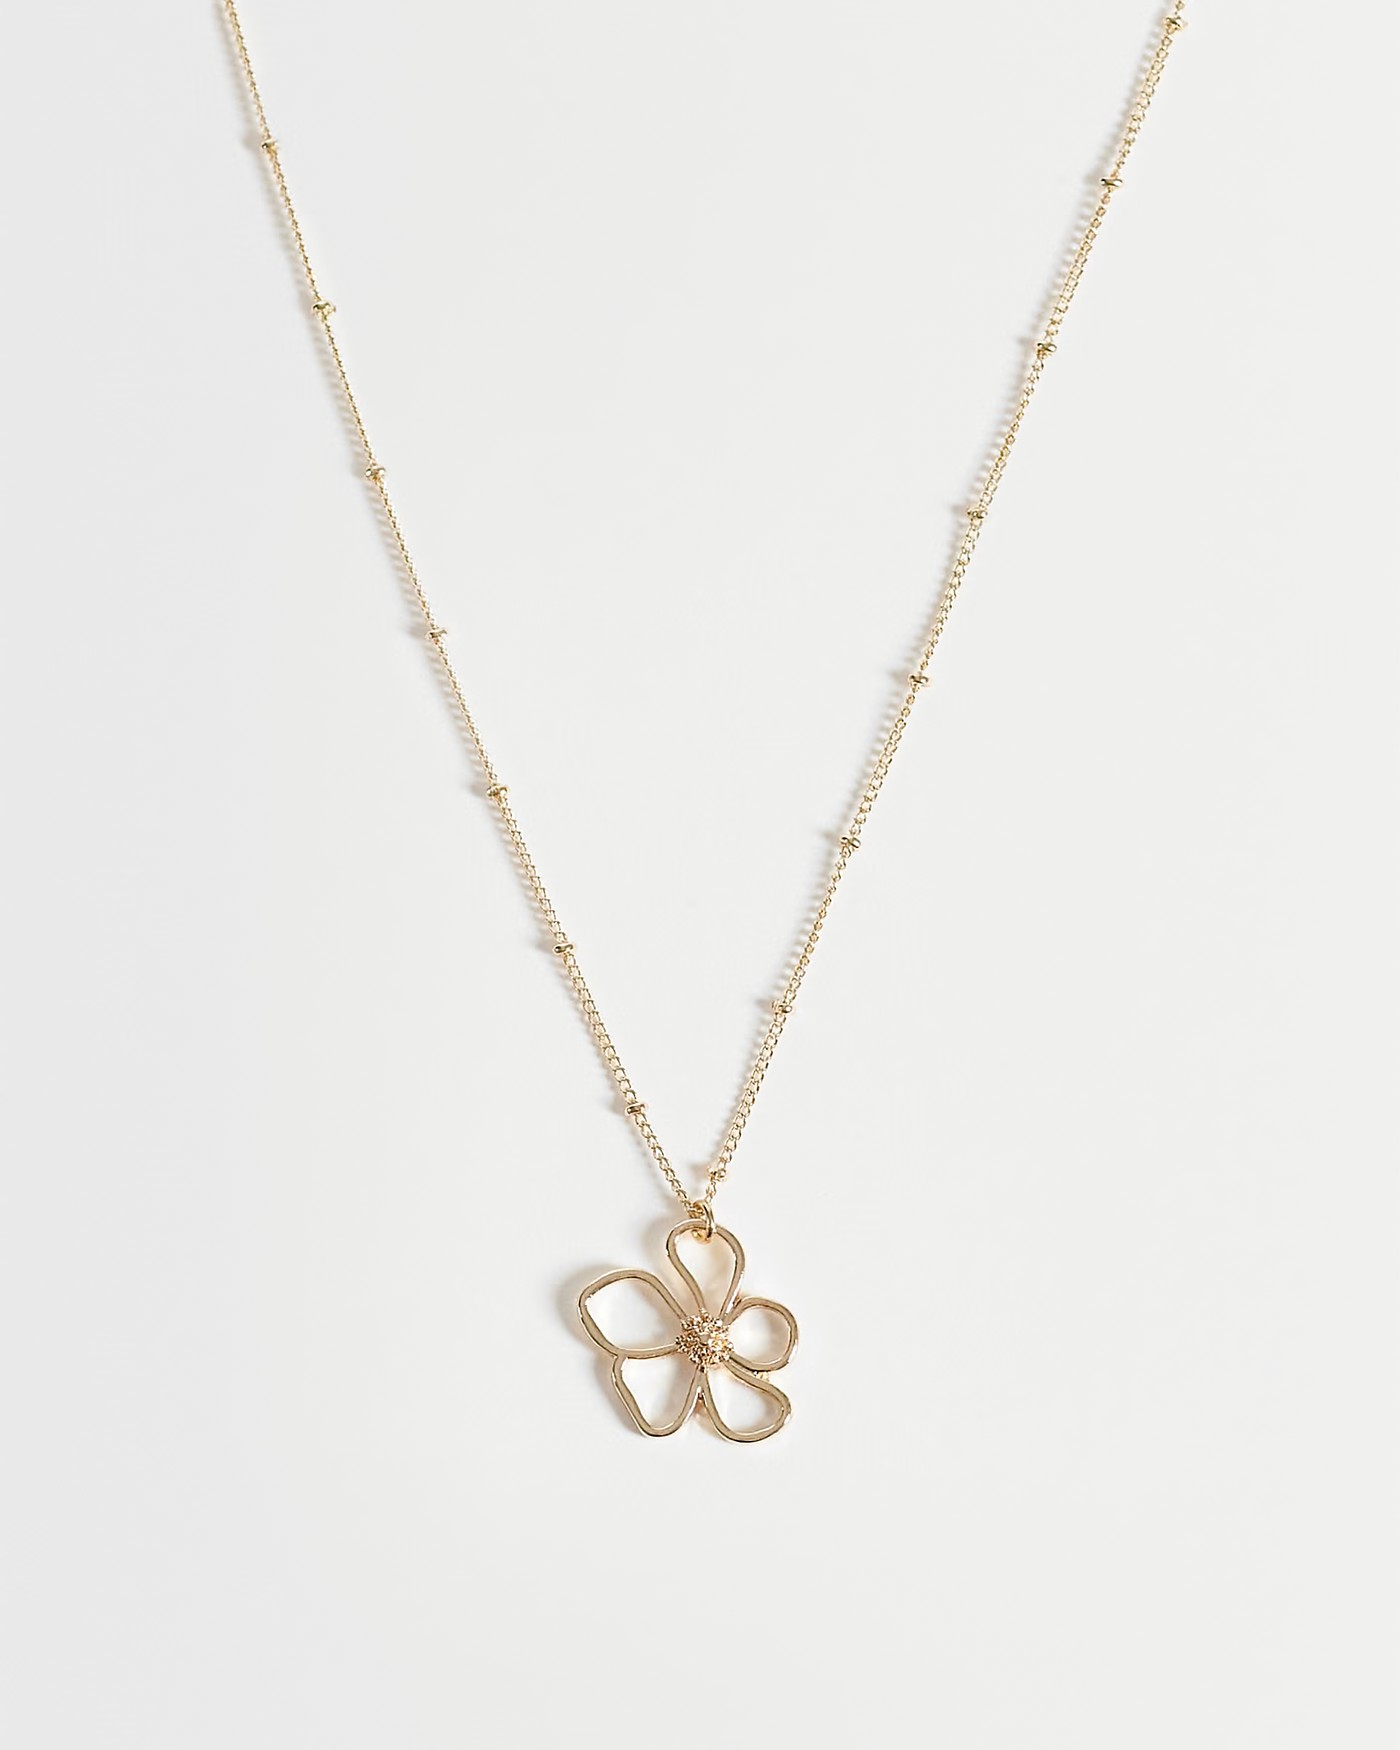
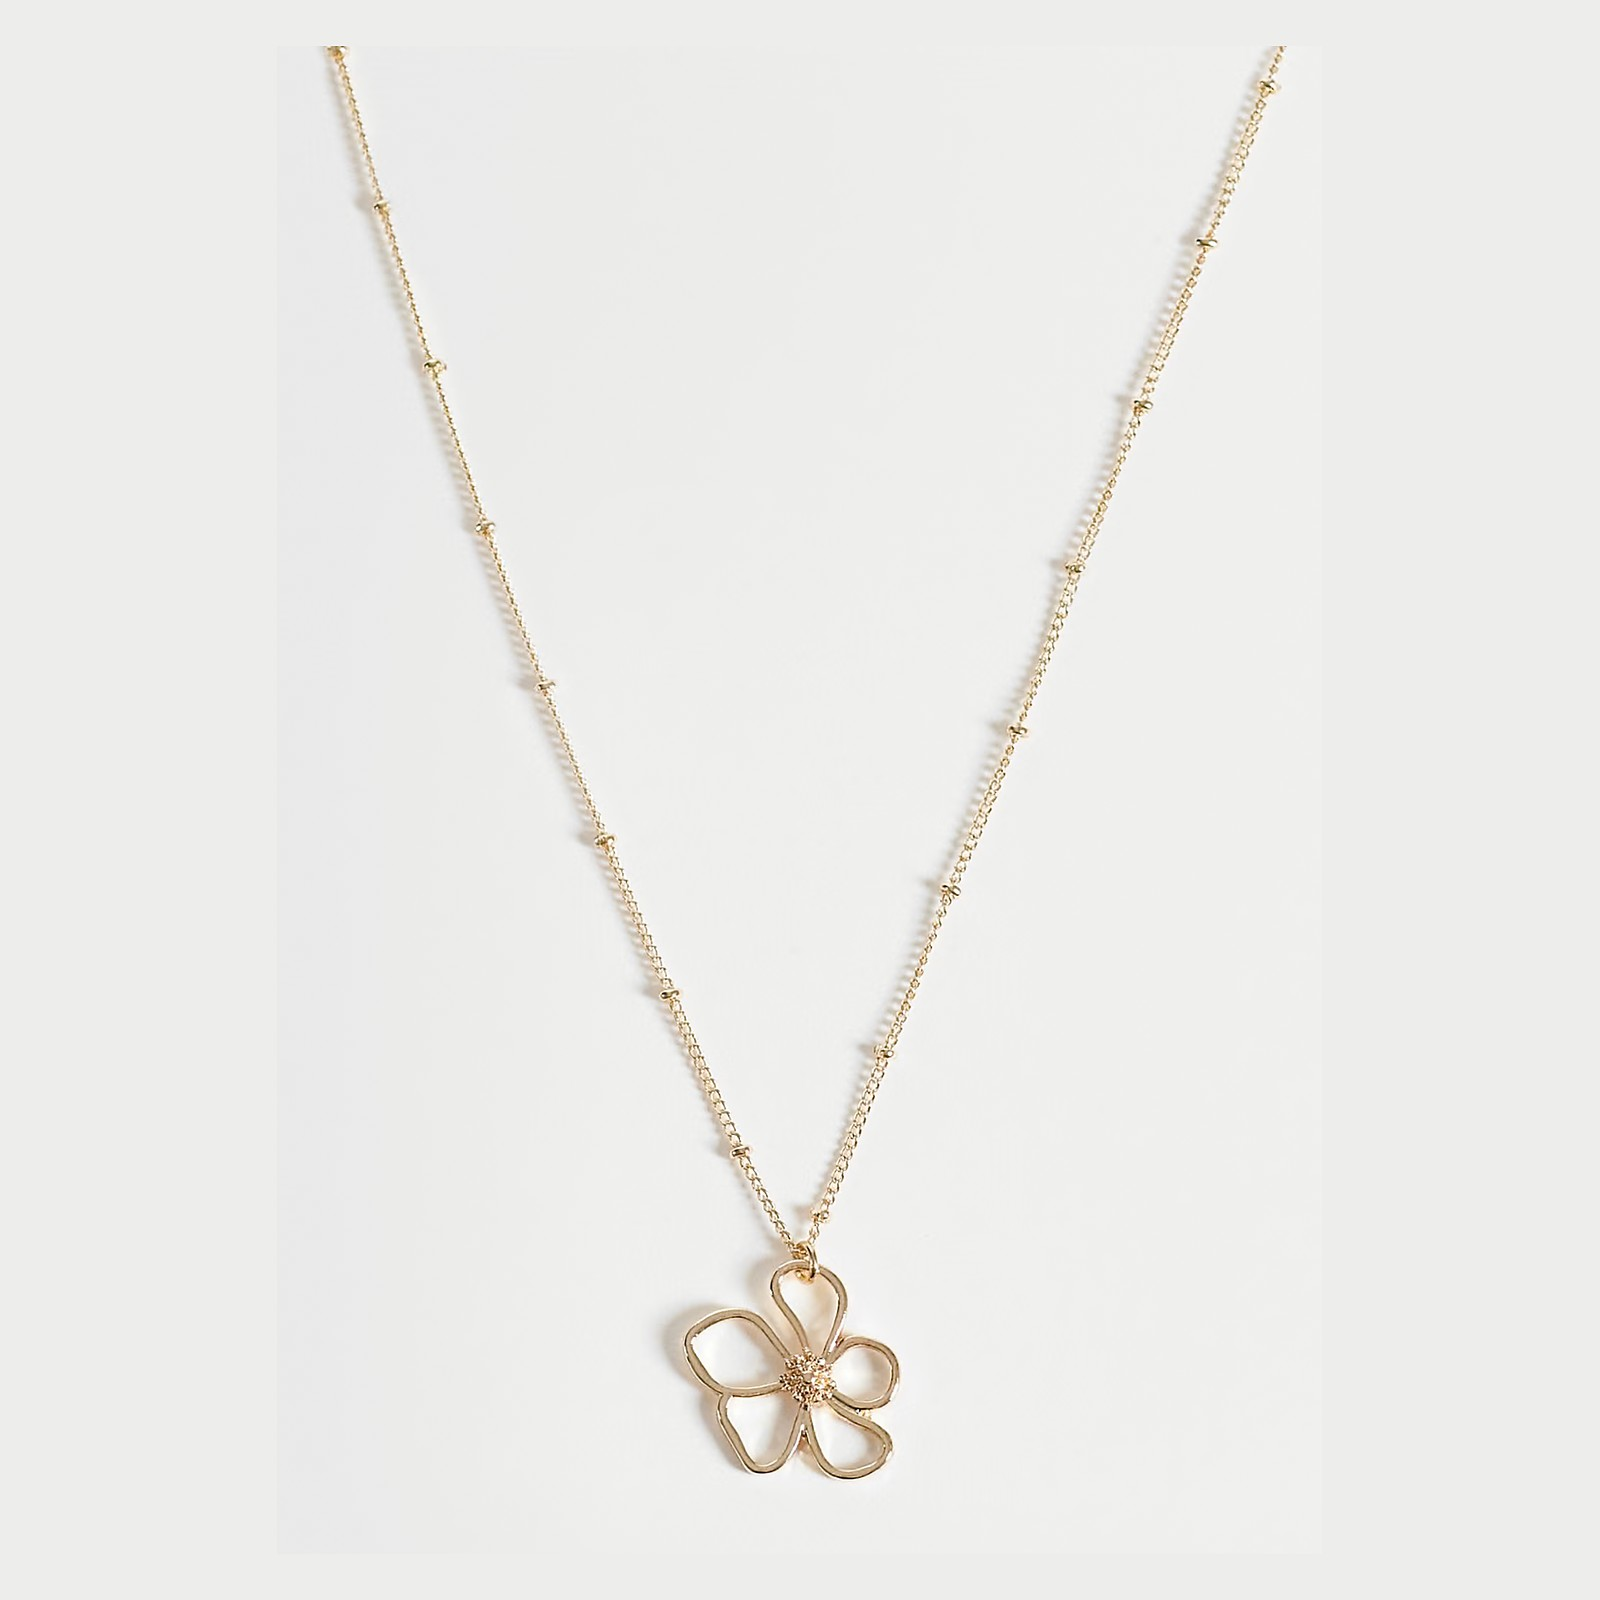
fix: women's necklaces and viewport-fitted square hero
- all four necklaces are women's again; copy and tags updated
- hero image rebuilt as a 1600x1600 plate and capped at min(40rem, 100dvh - 9rem) so the full photo fits the viewport at every breakpoint
- hero/gender assertions added to the Playwright layout test

Changed region(s): [[0.1536, 0.0, 0.6757, 0.9375], [0.6757, 0.0, 0.86, 0.3438]]

diff --git a/prisma/seed.ts b/prisma/seed.ts
@@ -87,7 +87,7 @@ const products: SeedProduct[] = [
     slug: 'necklace-avid',
     name: 'گردنبند آوید',
     category: 'necklace',
-    gender: 'MEN',
+    gender: 'WOMEN',
     price: 1_490_000,
     compareAtPrice: 1_790_000,
     sku: 'VNR-NC-001',
@@ -114,7 +114,7 @@ const products: SeedProduct[] = [
     slug: 'necklace-mahtab',
     name: 'گردنبند مهتاب',
     category: 'necklace',
-    gender: 'MEN',
+    gender: 'WOMEN',
     price: 1_890_000,
     sku: 'VNR-NC-002',
     description:
@@ -138,20 +138,20 @@ const products: SeedProduct[] = [
     slug: 'necklace-arka',
     name: 'گردنبند آرکا',
     category: 'necklace',
-    gender: 'MEN',
+    gender: 'WOMEN',
     price: 1_390_000,
     sku: 'VNR-NC-003',
     description:
-      'زنجیر باریک و یکدست با بست ساده. برای مردهایی که زنجیر ضخیم نمیخواهند و یک خط فلز روی گردن برایشان کافی است.',
+      'زنجیر باریک و یکدست با بست ساده. برای روزهایی که فقط یک خط فلز روی گردن میخواهی و چیزی بیشتر نه.',
     story:
       'آرکا سادهترین قطعهٔ مجموعه است: زنجیری با ضخامت کم و بستی که پشت گردن پنهان میشود. سطح را مات نگه داشتیم تا در استفادهٔ روزمره، خطوخش کمتر دیده شود.',
     materials: 'استیل ۳۱۶',
     care,
     stock: 7,
     isBestSeller: true,
-    tags: ['مردانه', 'مینیمال', 'روزمره'],
+    tags: ['مینیمال', 'استیل', 'روزمره'],
     images: [
-      { file: 'necklace-arka-01.jpg', alt: 'گردنبند آرکا؛ زنجیر باریک استیل مردانه' },
+      { file: 'necklace-arka-01.jpg', alt: 'گردنبند آرکا؛ زنجیر باریک استیل' },
     ],
     variants: [
       { kind: 'SIZE', label: '۵۰ سانتیمتر', stock: 4 },
@@ -162,7 +162,7 @@ const products: SeedProduct[] = [
     slug: 'necklace-nilo',
     name: 'گردنبند نیلو',
     category: 'necklace',
-    gender: 'MEN',
+    gender: 'WOMEN',
     price: 1_690_000,
     sku: 'VNR-NC-004',
     description:

diff --git a/src/components/home/Hero.tsx b/src/components/home/Hero.tsx
@@ -14,7 +14,7 @@ export function Hero({ feature }: { feature?: HeroFeature }) {
   return (
     <section className="relative overflow-hidden bg-paper">
       <div className="mx-auto grid w-full max-w-[1600px] grid-cols-1 lg:grid-cols-12">
-        <div className="relative z-10 order-2 mx-3 -mt-20 flex flex-col justify-center bg-paper px-5 pb-14 pt-8 sm:mx-0 sm:px-[clamp(1.25rem,4vw,4.5rem)] lg:order-1 lg:col-span-5 lg:mt-0 lg:bg-transparent lg:px-[clamp(1.25rem,4vw,4.5rem)] lg:py-24 xl:col-span-5">
+        <div className="relative z-10 order-2 mx-3 -mt-20 flex flex-col justify-center bg-paper px-5 pb-14 pt-8 sm:mx-0 sm:px-[clamp(1.25rem,4vw,4.5rem)] lg:order-1 lg:col-span-6 lg:mt-0 lg:bg-transparent lg:px-[clamp(1.25rem,4vw,4.5rem)] lg:py-16 xl:col-span-6">
           <h1 className="display text-4xl">
             <span className="block">زیبایی،</span>
             <span className="block">
@@ -43,14 +43,15 @@ export function Hero({ feature }: { feature?: HeroFeature }) {
           </div>
         </div>
 
-        <div className="relative order-1 lg:order-2 lg:col-span-7">
-          <div className="relative aspect-[4/5] w-full overflow-hidden bg-blush">
+        <div className="relative order-1 lg:order-2 lg:col-span-6">
+          <div className="relative mx-auto aspect-square w-full overflow-hidden bg-blush lg:h-[min(40rem,calc(100dvh-9rem))] lg:w-auto lg:max-w-full">
             <Image
+              id="hero-image"
               src="/images/hero/hero.jpg"
               alt="گردنبند نیلو؛ گلهای ریز روی زنجیر استیل"
               fill
               priority
-              sizes="(max-width: 1024px) 100vw, 58vw"
+              sizes="(max-width: 1024px) 100vw, 46vw"
               className="hero-image-in object-cover"
             />
 

diff --git a/e2e/store.spec.ts b/e2e/store.spec.ts
@@ -29,7 +29,7 @@ test.describe('storefront', () => {
     await expect(page.locator('article')).toHaveCount(4);
 
     await page.goto('/products?gender=men');
-    await expect(page.locator('article')).toHaveCount(7);
+    await expect(page.locator('article')).toHaveCount(3);
 
     await page.goto('/products?discount=1');
     await expect(page.locator('article')).toHaveCount(5);
@@ -220,6 +220,13 @@ test.describe('responsive', () => {
 
   test('layout quality: tap targets, grid columns, clipping and hero CTA', async ({ page }) => {
     await page.setViewportSize({ width: 375, height: 812 });
+    await page.goto('/');
+    await page.waitForLoadState('networkidle');
+
+    const mobileHero = await page.locator('#hero-image').boundingBox();
+    expect(mobileHero).not.toBeNull();
+    expect((mobileHero?.y ?? 0) + (mobileHero?.height ?? 0)).toBeLessThanOrEqual(812);
+
     await page.goto('/products');
     await page.waitForLoadState('networkidle');
 
@@ -258,6 +265,10 @@ test.describe('responsive', () => {
     const ctaBox = await page.getByRole('link', { name: /مشاهده کالکشن/ }).first().boundingBox();
     expect(ctaBox).not.toBeNull();
     expect((ctaBox?.y ?? 0) + (ctaBox?.height ?? 0)).toBeLessThan(900);
+
+    const desktopHero = await page.locator('#hero-image').boundingBox();
+    expect(desktopHero).not.toBeNull();
+    expect((desktopHero?.y ?? 0) + (desktopHero?.height ?? 0)).toBeLessThanOrEqual(900);
 
     const clipped = await page.evaluate(() =>
       Array.from(document.querySelectorAll('h1, h2, .tabular'))

diff --git a/src/app/layout.tsx b/src/app/layout.tsx
@@ -20,7 +20,7 @@ export const metadata: Metadata = {
     siteName: site.name,
     title: `${site.faName} | زیورآلات معاصر`,
     description: site.description,
-    images: [{ url: '/images/hero/hero.jpg', width: 1400, height: 1750, alt: 'ونرا — زیورآلات معاصر' }],
+    images: [{ url: '/images/hero/hero.jpg', width: 1600, height: 1600, alt: 'ونرا — زیورآلات معاصر' }],
   },
   twitter: {
     card: 'summary_large_image',

diff --git a/docs/design-direction.md b/docs/design-direction.md
@@ -83,18 +83,20 @@ counts are rendered with Persian digits through `Intl.NumberFormat("fa-IR")`; di
 
 ## 5. Page compositions
 
-**Hero (desktop).** 12-column stage, minimum 86vh. Text occupies columns 1–6 (right in RTL), image columns
-7–12 bleeding to the right edge of the viewport. A 1px gold inset frame is offset 18px inside the image, and a
-rotated Latin caption (`VENERA — FINE JEWELLERY`) runs along its inner edge. Folio `۰۱ / کالکشن` top-right,
-display line `«زیبایی، در جزئیات زندگی میکند.»` at `--text-4xl`, supporting copy at `--text-lg` with a max
-of 48 characters per line, then two CTAs. A thin index strip at the bottom lists the four categories with
-numerals. Mobile recomposes: portrait crop (4/5) on top with the plum text block overlapping its lower-left
-corner by 24px, display line reduced to `--text-3xl`, CTAs in one row at ≥360px and stacked below that. The
-jewellery focal point is protected by a `object-position` per-image override.
+**Hero (desktop).** 12-column stage inside a 1600px cap. Text occupies columns 1–6 (right in RTL); a square
+image occupies columns 7–12, capped at `min(40rem, 100dvh − 9rem)` so the whole photograph fits inside a
+900px-tall viewport together with the header. A 1px paper inset frame sits inside the image, and a small
+product tag (name + price) is anchored bottom-start. Display line `«زیبایی، در جزئیات زندگی میکند.»` at
+`--text-4xl`, supporting copy at `--text-lg` (max 48 characters per line), then two CTAs. No folio, eyebrow
+or index strip: the heading and image carry the composition. Mobile recomposes: a full-width square image
+with the paper text block pulled up over its lower edge by 80px, display line reduced to `--text-4xl`,
+CTAs visible in the first screen. The image is a square 1600×1600 plate so `object-cover` never crops the
+necklace.
 
 **Categories.** Four unequal panels: necklace 7 columns (3/4), bracelet 5 columns (4/5), earrings 5 columns
-(4/5), ring 7 columns (3/4). Overlay typography is bottom-aligned, numerals top-left, and the hover state
-lifts the image scale and reveals a «کشف» line. Below 768px: two stacked full-width panels and two half-width
+(4/5), ring 7 columns (3/4). Overlay typography is bottom-aligned — name, tagline and product count with an
+arrow; no numeral or Latin caption. The hover state lifts the image scale and reveals the count arrow. Below
+768px: two stacked full-width panels and two half-width
 panels, never a shrunken four-across grid.
 
 **Best sellers / discounts.** Four-up product row on desktop (horizontal snap rail at ≤767px), heading with a

diff --git a/README.md b/README.md
@@ -141,7 +141,7 @@ Server Components fetch data directly; Client Components exist only for interact
   real numbers.
 - The catalogue holds the ten products from the brief plus one extra necklace (نیلو) added at the
   owner’s request, with four necklace photographs supplied by the owner. All four necklaces are
-  men’s, in 316 stainless steel, priced between 1,000,000 and 2,000,000 Toman. The five discounted
+  women’s, in 316 stainless steel, priced between 1,000,000 and 2,000,000 Toman. The five discounted
   items are still 1, 4, 6, 7 and 10; percentages are derived at render time.
 - Seeding is idempotent: products/categories are upserted by slug; images are recreated;
   variants are upserted and stale variants are removed; demo users are upserted.

diff --git a/docs/qa-report.md b/docs/qa-report.md
@@ -16,7 +16,7 @@ Run date: 2026-10-27 (Asia/Tehran) · Build: Next.js 16.4.3 · Browser: Microsof
 ## 2. Functional coverage (Playwright)
 
 1. **Home + navigation + catalogue filters** — heading, CTAs, product cards; mega-menu opens and
-   routes to `/products`; category count = 4; gender = 7; discounted = 5; search «آرکا» = 1;
+   routes to `/products`; category count = 4; gender = 3 (men’s bracelets and ring); discounted = 5; search «آرکا» = 1;
    `min=2,000,000` returns the branded empty state.
 2. **Guest → account → order** — add a variant to the guest cart, see the guest cart summary,
    register a fresh account, guest cart merges into PostgreSQL, create an address, continue to

diff --git a/docs/asset-manifest.md b/docs/asset-manifest.md
@@ -59,5 +59,5 @@ License) in `public/fonts`.
 
 - Products: 1000x1250 (4:5), JPEG q88, progressive.
 - Categories: 1200x1500 (4:5).
-- Hero: 2000x1250 desktop and 1200x1500 mobile.
+- Hero: 1600x1600 square, displayed with a viewport-height cap.
 - Editorial: 1600x1000, 1400x1750 and 2000x1100 plates.
